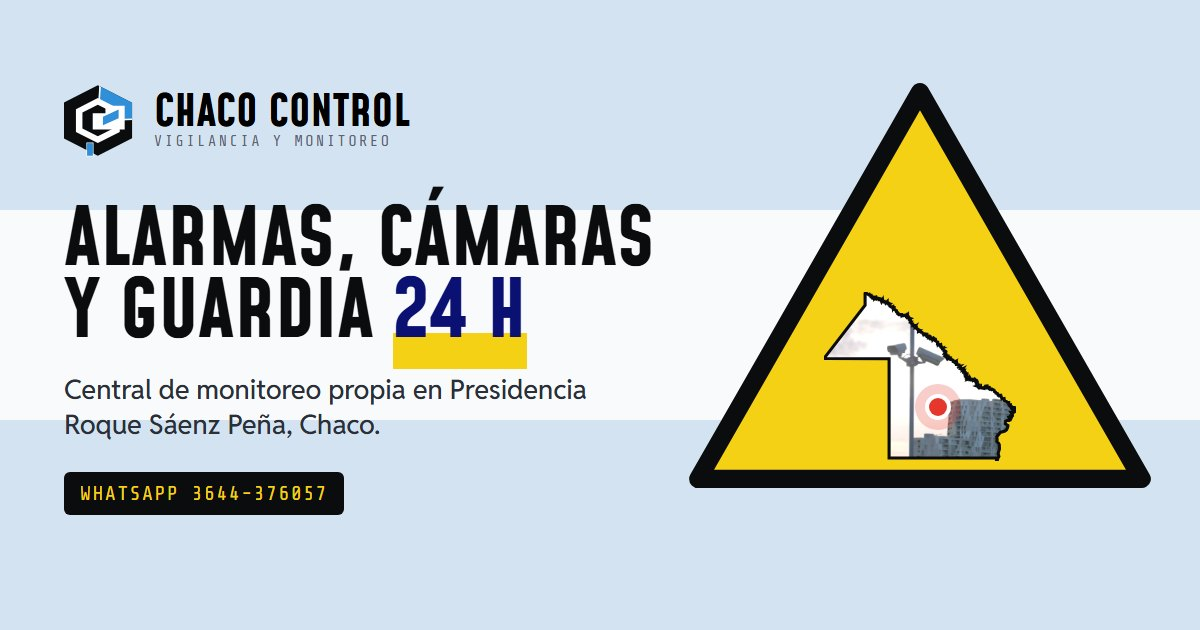
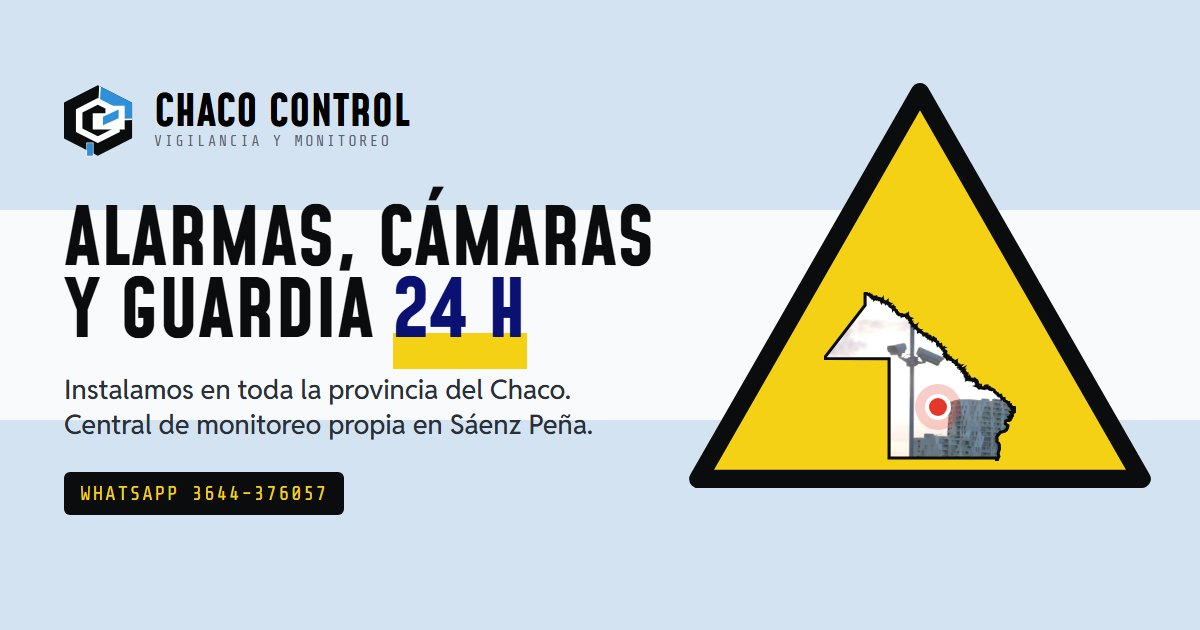
feat(demochacocontrol): instalación de alarmas y cámaras en toda la provincia del Chaco (textos, SEO, FAQ y OG)

Changed region(s): [[0.0308, 0.6635, 0.4933, 0.6937], [0.0308, 0.6032, 0.4933, 0.6333]]

diff --git a/demochacocontrol/index.html b/demochacocontrol/index.html
@@ -3,9 +3,9 @@
 <head>
   <meta charset="UTF-8">
   <meta name="viewport" content="width=device-width, initial-scale=1, viewport-fit=cover">
-  <title>Chaco Control | Alarmas, cámaras y monitoreo en Sáenz Peña</title>
-  <meta name="description" content="Alarmas, cámaras y monitoreo 24 h con central propia en Presidencia Roque Sáenz Peña, Chaco. Guardias y servicio técnico. Pedí tu presupuesto por WhatsApp.">
-  <meta name="keywords" content="alarmas Sáenz Peña, cámaras de seguridad Sáenz Peña, monitoreo de alarmas Chaco, seguridad privada Presidencia Roque Sáenz Peña, guardias de seguridad Chaco, instalación de cámaras Chaco, botón antipánico, Chaco Control">
+  <title>Chaco Control | Alarmas y cámaras en todo el Chaco</title>
+  <meta name="description" content="Instalamos alarmas y cámaras en toda la provincia del Chaco. Monitoreo 24 h con central propia en Presidencia Roque Sáenz Peña, guardias y service técnico.">
+  <meta name="keywords" content="instalación de alarmas Chaco, cámaras de seguridad provincia del Chaco, alarmas Sáenz Peña, cámaras de seguridad Sáenz Peña, monitoreo de alarmas Chaco, seguridad privada Presidencia Roque Sáenz Peña, guardias de seguridad Chaco, instalación de cámaras Chaco, botón antipánico, Chaco Control">
   <meta name="robots" content="index, follow, max-image-preview:large">
   <meta name="author" content="TuPaginaYa">
   <meta name="theme-color" content="#0A1172">
@@ -13,8 +13,8 @@
 
   <meta property="og:type" content="website">
   <meta property="og:site_name" content="Chaco Control · Vigilancia y monitoreo">
-  <meta property="og:title" content="Chaco Control | Alarmas, cámaras y monitoreo en Sáenz Peña">
-  <meta property="og:description" content="Instalamos alarmas y cámaras, monitoreamos desde nuestra central propia las 24 h y mandamos guardia ante eventos reales. Presidencia Roque Sáenz Peña, Chaco.">
+  <meta property="og:title" content="Chaco Control | Alarmas y cámaras en todo el Chaco">
+  <meta property="og:description" content="Instalamos alarmas y cámaras en toda la provincia del Chaco. Central de monitoreo propia en Sáenz Peña y guardia ante eventos reales.">
   <meta property="og:url" content="https://chacocontrol.tupaginaya.com.ar/">
   <meta property="og:image" content="https://tusitiowebya.github.io/demochacocontrol/og-image.jpg">
   <meta property="og:image:width" content="1200">
@@ -22,8 +22,8 @@
   <meta property="og:image:alt" content="Chaco Control: el cartel amarillo con la silueta del Chaco y el isotipo hexagonal, alarmas y monitoreo en Sáenz Peña">
   <meta property="og:locale" content="es_AR">
   <meta name="twitter:card" content="summary_large_image">
-  <meta name="twitter:title" content="Chaco Control | Alarmas, cámaras y monitoreo en Sáenz Peña">
-  <meta name="twitter:description" content="Alarmas, cámaras, monitoreo 24 h con central propia y guardias en Presidencia Roque Sáenz Peña, Chaco.">
+  <meta name="twitter:title" content="Chaco Control | Alarmas y cámaras en todo el Chaco">
+  <meta name="twitter:description" content="Instalación de alarmas y cámaras en toda la provincia del Chaco. Monitoreo 24 h con central propia en Sáenz Peña.">
   <meta name="twitter:image" content="https://tusitiowebya.github.io/demochacocontrol/og-image.jpg">
 
   <link rel="icon" type="image/png" sizes="32x32" href="favicon-32.png">
@@ -46,7 +46,7 @@
         "@id": "https://chacocontrol.tupaginaya.com.ar/#negocio",
         "name": "Chaco Control",
         "alternateName": "Chaco Control · Vigilancia y Monitoreo",
-        "description": "Empresa de seguridad privada en Presidencia Roque Sáenz Peña, Chaco. Venta e instalación de sistemas de alarma y videovigilancia, barreras, sensores y control antipánico; monitoreo de alarmas las 24 horas con central propia; guardias en objetivos y guardia de respuesta ante eventos reales; servicio técnico y mantenimiento.",
+        "description": "Empresa de seguridad privada de Presidencia Roque Sáenz Peña, Chaco. Venta e instalación de sistemas de alarma y videovigilancia en toda la provincia del Chaco, barreras, sensores y control antipánico; monitoreo de alarmas las 24 horas con central propia; guardias en objetivos y guardia de respuesta ante eventos reales; servicio técnico y mantenimiento.",
         "url": "https://chacocontrol.tupaginaya.com.ar/",
         "image": "https://tusitiowebya.github.io/demochacocontrol/og-image.jpg",
         "logo": "https://tusitiowebya.github.io/demochacocontrol/favicon-512.png",
@@ -59,7 +59,7 @@
           "addressCountry": "AR"
         },
         "geo": { "@type": "GeoCoordinates", "latitude": -26.7852, "longitude": -60.4388 },
-        "areaServed": { "@type": "City", "name": "Presidencia Roque Sáenz Peña" },
+        "areaServed": [{ "@type": "State", "name": "Chaco" }, { "@type": "City", "name": "Presidencia Roque Sáenz Peña" }],
         "sameAs": ["https://www.instagram.com/chac_control/"],
         "contactPoint": [
           { "@type": "ContactPoint", "telephone": "+54 9 3644 37-6057", "contactType": "sales", "availableLanguage": "es" },
@@ -134,7 +134,7 @@
           <span class="l1">Alarmas, cámaras</span>
           <span class="l2">y guardia <em>las 24 h</em></span>
         </h1>
-        <p class="hero__lead">Vendemos e instalamos sistemas de alarma y videovigilancia en <strong>Presidencia Roque Sáenz Peña</strong>. Los monitoreamos desde nuestra <strong>central propia</strong> y, cuando el evento es real, va un guardia.</p>
+        <p class="hero__lead">Vendemos e instalamos sistemas de alarma y videovigilancia en <strong>toda la provincia del Chaco</strong>, desde Presidencia Roque Sáenz Peña. Los monitoreamos desde nuestra <strong>central propia</strong> y, cuando el evento es real, va un guardia.</p>
         <div class="hero__cta">
           <a class="btn btn--sign" href="https://wa.me/5493644376057?text=Hola%20Chaco%20Control%2C%20quiero%20un%20presupuesto%20de%20alarma%20y%2Fo%20c%C3%A1maras." data-wa target="_blank" rel="noopener">
             <svg viewBox="0 0 24 24" aria-hidden="true"><path d="M12 2a10 10 0 0 0-8.6 15.1L2 22l5-1.3A10 10 0 1 0 12 2Zm5.3 14.2c-.2.6-1.3 1.2-1.8 1.2-.5.1-1 .3-3.4-.7-2.9-1.2-4.7-4.1-4.8-4.3-.1-.2-1.2-1.6-1.2-3s.7-2.1 1-2.4c.3-.3.6-.3.8-.3h.6c.2 0 .4 0 .6.5l.8 2c.1.2.1.4 0 .6l-.4.6-.4.5c-.1.1-.3.3-.1.6.2.3.8 1.3 1.7 2.1 1.2 1 2.1 1.4 2.4 1.5.3.1.5.1.7-.1l1-1.2c.2-.3.4-.2.7-.1l1.9.9c.3.1.5.2.5.3.1.2.1.8-.1 1.3Z"/></svg>
@@ -143,6 +143,7 @@
           <a class="btn btn--line" href="#arma-tu-sistema">Marcá qué querés cuidar</a>
         </div>
         <ul class="hero__facts" aria-label="Lo principal">
+          <li><b>Instalación</b> en toda la provincia</li>
           <li><b>Central propia</b> de monitoreo</li>
           <li><b>Guardias</b> en objetivos y de respuesta</li>
           <li><b>Servicio técnico</b> y mantenimiento</li>
@@ -165,7 +166,7 @@
           <span class="ping" aria-hidden="true"><i></i><i></i><i></i></span>
           <span class="ping__label">Sáenz Peña<small>central propia</small></span>
         </div>
-        <figcaption class="sign__cap">Nuestro cartel · video ilustrativo</figcaption>
+        <figcaption class="sign__cap">Instalamos en todo el Chaco · video ilustrativo</figcaption>
       </figure>
 
       <div class="lcd hero__lcd" aria-hidden="true"><span class="lcd__dot"></span><span id="lcdTicker">SISTEMA LISTO · CENTRAL EN LÍNEA</span></div>
@@ -221,7 +222,7 @@
           <div class="zone__body">
             <h3>Alarmas</h3>
             <p>Venta e instalación de sistemas de alarma: panel, teclado, sensores de movimiento, contactos magnéticos en puertas y ventanas, sirena y batería de respaldo.</p>
-            <ul class="tags"><li>Sensores</li><li>Barreras</li><li>Control antipánico</li></ul>
+            <ul class="tags"><li>Toda la provincia</li><li>Sensores</li><li>Barreras</li><li>Control antipánico</li></ul>
           </div>
           <img src="media/kit-alarma-dsc.webp" alt="Kit de alarma cableada: panel, teclado, sensores de movimiento, sirena, contactos magnéticos y batería" loading="lazy" width="900" height="866">
         </article>
@@ -231,7 +232,7 @@
           <div class="zone__body">
             <h3>Cámaras de seguridad</h3>
             <p>Kits de videovigilancia con grabador y cámaras para interior y exterior. Los instalamos, los configuramos y te dejamos viéndolos.</p>
-            <ul class="tags"><li>Grabador DVR</li><li>Cámaras 1080p</li><li>Interior y exterior</li></ul>
+            <ul class="tags"><li>Toda la provincia</li><li>Grabador DVR</li><li>Cámaras 1080p</li><li>Interior y exterior</li></ul>
           </div>
           <img src="media/reja-camara.webp" alt="Frente de una casa con reja y cámara domo instalada bajo el alero, trabajo de Chaco Control" loading="lazy" width="410" height="450">
         </article>
@@ -339,7 +340,7 @@
               <label><input type="radio" name="equipo" value="service"><span>Sí, necesito service</span></label>
             </fieldset>
             <div class="row2">
-              <label class="field"><span>Barrio o localidad</span><input type="text" id="barrio" placeholder="Ej.: Centro, Sáenz Peña" autocomplete="address-level2"></label>
+              <label class="field"><span>Localidad y barrio</span><input type="text" id="barrio" placeholder="Ej.: Centro, Sáenz Peña" autocomplete="address-level2"></label>
               <label class="field"><span>Tu nombre</span><input type="text" id="nombre" placeholder="Opcional" autocomplete="given-name"></label>
             </div>
             <ul class="keypad__list" id="pickList"></ul>
@@ -398,7 +399,7 @@
       <div class="local__copy reveal">
         <p class="eyebrow">De acá</p>
         <h2>Somos de Sáenz Peña</h2>
-        <p>Chaco Control es una empresa de seguridad privada de <strong>Presidencia Roque Sáenz Peña</strong>. Vendemos e instalamos alarmas, cámaras, barreras, sensores y control antipánico; monitoreamos desde nuestra central propia y tenemos guardias para objetivos y para responder a los eventos reales.</p>
+        <p>Chaco Control es una empresa de seguridad privada de <strong>Presidencia Roque Sáenz Peña</strong>. Vendemos e instalamos alarmas, cámaras, barreras, sensores y control antipánico; monitoreamos desde nuestra central propia y tenemos guardias para objetivos y para responder a los eventos reales. Las instalaciones las hacemos en <strong>toda la provincia del Chaco</strong>.</p>
         <p>El triángulo amarillo con el Chaco adentro es nuestro cartel de siempre. Hoy lo acompaña el hexágono, pero la idea es la misma: cuidar lo de acá, desde acá.</p>
         <dl class="local__data">
           <div><dt>Dirección</dt><dd>San Martín 1203, Presidencia Roque Sáenz Peña, Chaco</dd></div>
@@ -414,6 +415,10 @@
         <h2>Lo que más nos consultan</h2>
       </header>
       <div class="faq__list">
+        <details class="reveal">
+          <summary>¿Instalan fuera de Sáenz Peña?</summary>
+          <p>Sí. Hacemos instalaciones de alarmas y cámaras en toda la provincia del Chaco. Contanos la localidad por WhatsApp y coordinamos.</p>
+        </details>
         <details class="reveal">
           <summary>¿Cuál es la diferencia entre una alarma sola y una monitoreada?</summary>
           <p>Una alarma sola hace sonar la sirena y depende de que alguien la escuche. Con monitoreo, la señal llega a nuestra central propia, se evalúa el evento y, si es real, va un guardia.</p>
@@ -445,7 +450,7 @@
       </div>
       <div class="close__copy">
         <h2>¿Qué querés cuidar?</h2>
-        <p>Escribinos y coordinamos una visita en Sáenz Peña.</p>
+        <p>Escribinos desde cualquier punto del Chaco: instalamos en toda la provincia.</p>
         <div class="close__cta">
           <a class="btn btn--sign btn--big" href="https://wa.me/5493644376057?text=Hola%20Chaco%20Control%2C%20quiero%20coordinar%20una%20visita%20para%20un%20presupuesto." data-wa target="_blank" rel="noopener">WhatsApp 3644-376057</a>
           <a class="btn btn--line btn--light" href="tel:+5493644568749">Llamar al 3644-568749</a>
@@ -461,7 +466,7 @@
   <footer class="pie">
     <div class="pie__brand">
       <svg viewBox="40 20 1000 1020" aria-hidden="true"><use href="#cc"/></svg>
-      <p>CHACO CONTROL<small>vigilancia y monitoreo · Sáenz Peña, Chaco</small></p>
+      <p>CHACO CONTROL<small>vigilancia y monitoreo · instalamos en todo el Chaco</small></p>
     </div>
     <nav class="pie__links" aria-label="Contacto">
       <a href="https://wa.me/5493644376057" data-wa target="_blank" rel="noopener">WhatsApp 3644-376057</a>

diff --git a/demochacocontrol/script.js b/demochacocontrol/script.js
@@ -228,7 +228,7 @@
     if (ex.length) lines.push('Me interesa: ' + ex.join(', '));
     var barrio = document.getElementById('barrio').value.trim();
     var nombre = document.getElementById('nombre').value.trim();
-    if (barrio) lines.push('Barrio/localidad: ' + barrio);
+    if (barrio) lines.push('Localidad/barrio: ' + barrio);
     if (nombre) lines.push('Soy ' + nombre + '.');
     if (!picked.length) lines.push('Todavía no marqué puntos en el plano, ¿me asesoran?');
     return lines.join('\n');
